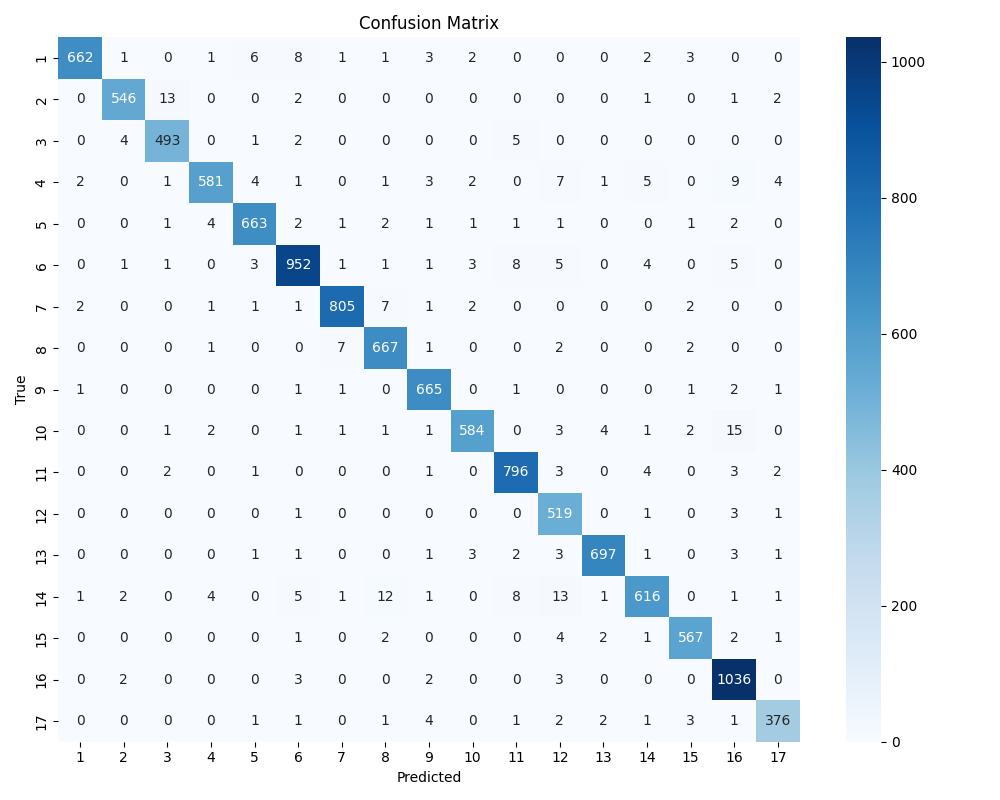
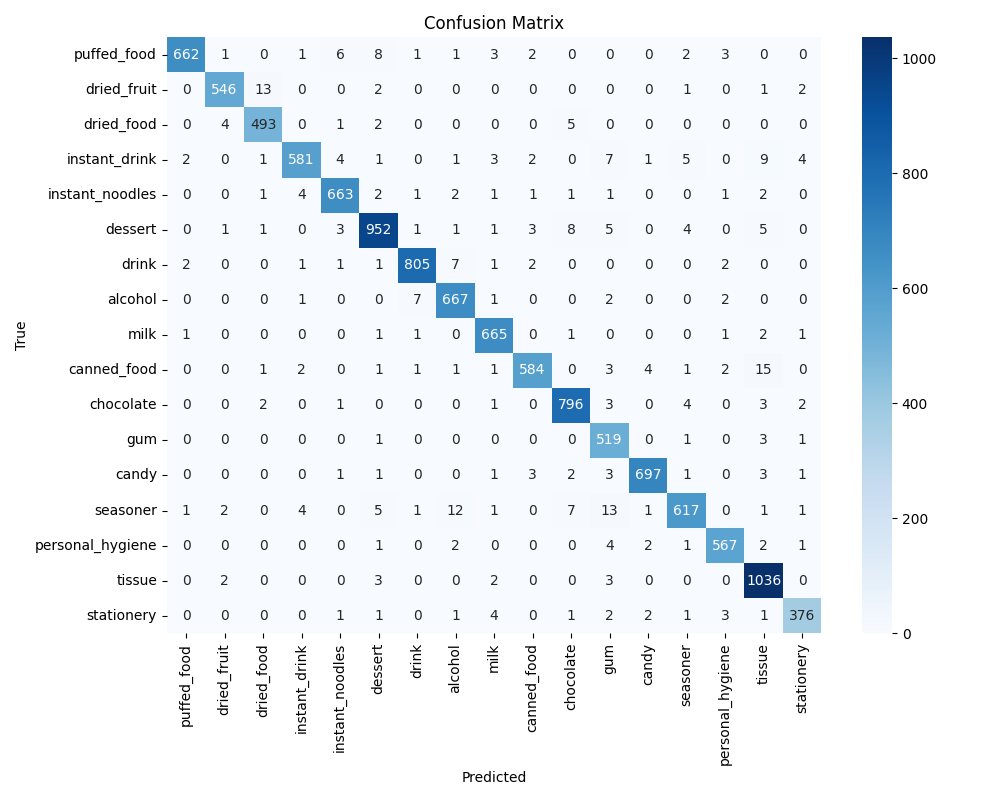
working for mlp and cnn

diff --git a/src/training/evaluate_cnn.py b/src/training/evaluate_cnn.py
@@ -2,11 +2,22 @@ import shutil
 
 from torch.utils.data import DataLoader
 
-from ..paths import LAST_METRICS_PATH, BEST_METRICS_PATH, LABEL_ENCODER_PATH
+from ..paths import (
+    LAST_METRICS_PATH, BEST_METRICS_PATH, 
+    LABEL_ENCODER_PATH,
+    VAL_ANNOTATIONS, SUPERCATEGORIES_PATH,
+    VAL_IMAGES
+    )
 
 from ..data.label_encoder import LabelEncoder
+from ..data.transforms import get_val_transforms
+from ..data.data_utils import build_supercategory_name_mapping
+
 from ..results.plots import plot_and_save_confusion_matrix
-from ..utils.io import save_metrics
+from ..results.class_pred import show_predictions_on_image
+
+from ..utils.io import save_metrics, load_json
+
 from .metrics import (
     get_predictions,
     compute_all_metrics,
@@ -33,14 +44,27 @@ def evaluate_cnn(model, is_better, val_path, device, batch_size=32):
     metrics = compute_all_metrics(y_true, y_pred)
 
     save_metrics(metrics, LAST_METRICS_PATH / "metrics.json")
+    
+    supercats = load_json(SUPERCATEGORIES_PATH)
+    supercat_map = build_supercategory_name_mapping(supercats)
+    supercat_list = [name for name in supercat_map.values()]
 
-    plot_and_save_confusion_matrix(
+    cm = plot_and_save_confusion_matrix(
         y_true,
         y_pred,
         save_path=LAST_METRICS_PATH / "confusion_matrix.png",
-        class_names=list(label_encoder.id2idx.keys())
+        class_names=supercat_list
     )
+    print("[INFO] Drawing predictions on example image...")
+    
+    clip_model = None
+    preprocess = get_val_transforms()
+    
+    show_predictions_on_image(model, device, cm, VAL_ANNOTATIONS, VAL_IMAGES, LAST_METRICS_PATH, label_encoder, clip_model, preprocess)
+    
     if is_better:
         shutil.copy(LAST_METRICS_PATH / "confusion_matrix.png", BEST_METRICS_PATH / "confusion_matrix.png")
+        shutil.copy(LAST_METRICS_PATH / "best_pred_img.png", BEST_METRICS_PATH / "best_pred_img.png")
+        shutil.copy(LAST_METRICS_PATH / "worst_pred_img.png", BEST_METRICS_PATH / "worst_pred_img.png")
 
     return metrics

diff --git a/src/training/evaluate_mlp.py b/src/training/evaluate_mlp.py
@@ -6,15 +6,19 @@ from torch.utils.data import DataLoader
 from ..paths import (
     EMBEDDINGS_PATH, 
     BEST_METRICS_PATH, LAST_METRICS_PATH,
-    VAL_ANNOTATIONS, 
+    VAL_ANNOTATIONS, SUPERCATEGORIES_PATH, 
     VAL_IMAGES
     )
 
 from ..data.label_encoder import LabelEncoder
 from ..data.dataset_loader import load_embeddings
+from ..data.data_utils import build_supercategory_name_mapping
+
 from ..results.plots import plot_and_save_confusion_matrix
 from ..results.class_pred import show_predictions_on_image
-from ..utils.io import save_metrics
+
+from ..utils.io import save_metrics, load_json
+
 from .metrics import (
     get_predictions,
     compute_all_metrics,
@@ -35,15 +39,21 @@ def evaluate_mlp(model, is_better, val_path, device, batch_size):
     metrics = compute_all_metrics(y_true, y_pred)
 
     save_metrics(metrics, LAST_METRICS_PATH / "metrics.json")
+    
+    supercats = load_json(SUPERCATEGORIES_PATH)
+    supercat_map = build_supercategory_name_mapping(supercats)
+    supercat_list = [name for name in supercat_map.values()]
 
     cm = plot_and_save_confusion_matrix(
         y_true,
         y_pred,
         save_path=LAST_METRICS_PATH / "confusion_matrix.png",
-        class_names=list(label_encoder.id2idx.keys())
+        class_names=supercat_list
     )
+    print("[INFO] Drawing predictions on example image...")
     
     clip_model, preprocess = clip.load("ViT-B/32", device=device)
+    
     show_predictions_on_image(model, device, cm, VAL_ANNOTATIONS, VAL_IMAGES, LAST_METRICS_PATH, label_encoder, clip_model, preprocess)
     
     if is_better:

diff --git a/src/training/training_utils.py b/src/training/training_utils.py
@@ -1,6 +1,10 @@
 import torch
+import torchvision.io as io
+import torchvision.transforms.functional as TF
+
 from PIL import Image
 from torch.utils.data import TensorDataset
+
 
 def run_epoch(loader, model, criterion, optimizer, device):
     total_loss = 0
@@ -50,9 +54,13 @@ def predict_bboxes(
     cat_map,
     preprocess,
     clip_model
-    
 ):
-    image = Image.open(image_path).convert("RGB")
+    
+    if clip_model:
+        image = Image.open(image_path).convert("RGB")
+    else: 
+        image = io.read_image(image_path)
+        _, H, W = image.shape
 
     results = []
 
@@ -74,13 +82,20 @@ def predict_bboxes(
 
             true_label = label_encoder.transform([supercat])[0]
 
-            crop = image.crop((x, y, x + w, y + h))
-            crop = preprocess(crop).unsqueeze(0).to(device)
-
             if clip_model is not None:
+                crop = image.crop((x, y, x + w, y + h))
+                crop = preprocess(crop).unsqueeze(0).to(device)
                 emb = clip_model.encode_image(crop)
                 logits = model(emb)
             else:
+                x1 = max(0, int(x))
+                y1 = max(0, int(y))
+                x2 = min(W, int(x + w))
+                y2 = min(H, int(y + h))
+                
+                crop = image[:, y1:y2, x1:x2]
+                crop = crop.float() / 255.0
+                
                 logits = model(crop)
 
             pred_label = logits.argmax(dim=1).item()

diff --git a/src/results/plots.py b/src/results/plots.py
@@ -1,3 +1,4 @@
+import torch
 import seaborn as sns
 import matplotlib.pyplot as plt
 import matplotlib.patches as patches
@@ -110,6 +111,8 @@ def plot_model_comparison(history_mlp_path, history_cnn_path, save_path):
         
 
 def draw_bboxes(image, results, label_encoder, supercat_map, metrics_path):
+    if isinstance(image, torch.Tensor):
+        image = image.permute(1, 2, 0).cpu().numpy()
     fig, ax = plt.subplots(1, figsize=(8, 8))
     ax.imshow(image)
 

diff --git a/src/training/metrics.py b/src/training/metrics.py
@@ -8,7 +8,6 @@ from sklearn.metrics import (
 )
 
 
-
 def get_predictions(model, loader, device):
     model.eval()
 
